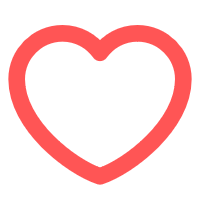
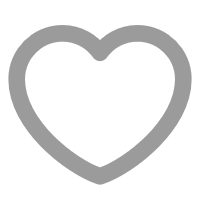
fix: improve ui

Changed region(s): [[0.03, 0.12, 0.96, 0.93]]

diff --git a/src/components/MusicItem/MusicItem.vue b/src/components/MusicItem/MusicItem.vue
@@ -24,6 +24,12 @@ const like = computed(() => userLikeListStore.likeList.includes(props.musicInfo.
 			<div class="number">
 				{{ index }}
 			</div>
+			<div class="is_like">
+				<img src="../../assets/like.png"
+						v-if="like">
+				<img src="../../assets/like_default.png"
+						v-else>
+			</div>
 			<div class="music_cover">
 				<img :src="musicInfo.al.picUrl"
 						:alt="musicInfo.al.name">
@@ -32,7 +38,7 @@ const like = computed(() => userLikeListStore.likeList.includes(props.musicInfo.
 				<div class="title">{{ musicInfo.name }}</div>
 				<div class="singer">{{ singer }}</div>
 			</div>
-			{{ like ? '喜欢' : "no" }}
+
 		</div>
 	</div>
 </template>

diff --git a/src/components/MusicItem/MusicItem.less b/src/components/MusicItem/MusicItem.less
@@ -23,6 +23,19 @@
 			margin-right: 24px;
 		}
 
+		.is_like {
+			margin-right: 40px;
+			height: 100%;
+			display: flex;
+			justify-content: center;
+			align-items: center;
+
+			img {
+				height: 18px;
+				width: 18px;
+			}
+		}
+
 		.music_cover {
 			height: 100%;
 			aspect-ratio: 1/1;

diff --git a/src/components/LoginModal/LoginModal.vue b/src/components/LoginModal/LoginModal.vue
@@ -59,6 +59,7 @@ watch(loginStore, async () => {
 	if (loginStore.status === 'success') {
 		getLoginStatus().then((res) => {
 			if (res?.account !== null && res?.profile !== null) {
+				window.location.reload();
 				loginStore.status = 'close';
 			}
 		});
